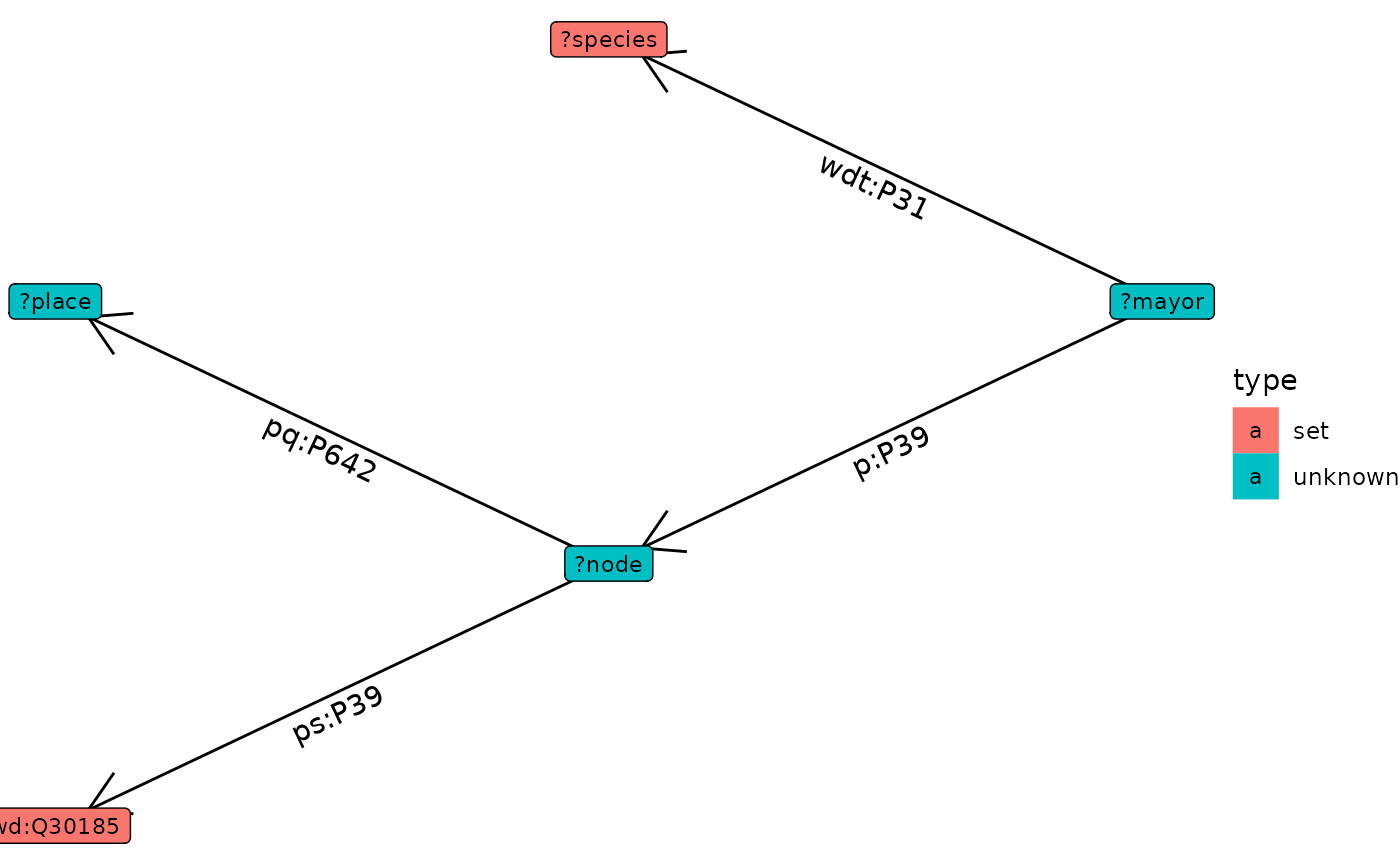
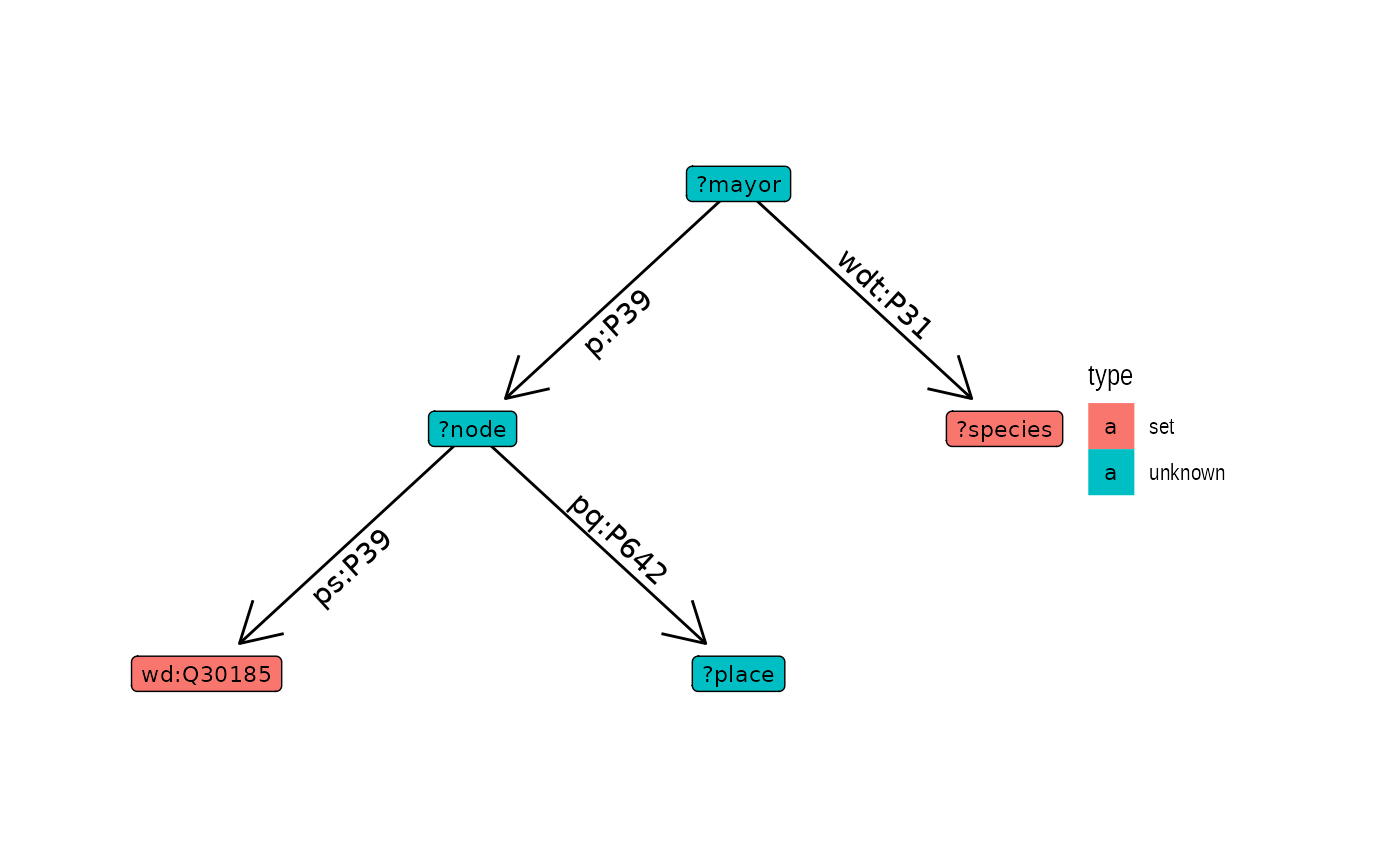
Deploying to gh-pages from @ lvaudor/sequins@5f4f7b83b090cd1eed1cc273b96b05ec75bf4a5f 🚀

diff --git a/articles/get-started.html b/articles/get-started.html
@@ -96,13 +96,16 @@
 <span>  <span class="co"># of some places</span></span>
 <span>  <span class="fu"><a href="https://lvaudor.github.io/glitter/reference/spq_add.html" class="external-link">spq_add</a></span><span class="op">(</span><span class="st">"?node pq:P642 ?place"</span><span class="op">)</span> </span>
 <span></span>
-<span><span class="fu"><a href="../reference/graph_query.html">graph_query</a></span><span class="op">(</span><span class="va">query</span>, layout<span class="op">=</span><span class="st">"tree"</span>, flip<span class="op">=</span><span class="cn">TRUE</span><span class="op">)</span></span></code></pre></div>
+<span><span class="fu"><a href="../reference/graph_query.html">graph_query</a></span><span class="op">(</span><span class="va">query</span>, layout<span class="op">=</span><span class="st">"tree"</span><span class="op">)</span></span></code></pre></div>
 <p><img src="get-started_files/figure-html/examples-graph_query--1.png" width="700"></p>
+<div class="sourceCode" id="cb3"><pre class="downlit sourceCode r">
+<code class="sourceCode R"><span><span class="fu"><a href="../reference/graph_query.html">graph_query</a></span><span class="op">(</span><span class="va">query</span>, label<span class="op">=</span><span class="cn">TRUE</span><span class="op">)</span></span></code></pre></div>
+<p><img src="get-started_files/figure-html/examples-graph_query--2.png" width="700"></p>
 </div>
 <div class="section level2">
 <h2 id="other-examples">Other examples<a class="anchor" aria-label="anchor" href="#other-examples"></a>
 </h2>
-<div class="sourceCode" id="cb3"><pre class="downlit sourceCode r">
+<div class="sourceCode" id="cb4"><pre class="downlit sourceCode r">
 <code class="sourceCode R"><span><span class="va">query</span><span class="op">=</span><span class="fu"><a href="https://lvaudor.github.io/glitter/reference/spq_init.html" class="external-link">spq_init</a></span><span class="op">(</span><span class="op">)</span> <span class="op"><a href="../reference/pipe.html">%&gt;%</a></span></span>
 <span>  <span class="fu"><a href="https://lvaudor.github.io/glitter/reference/spq_add.html" class="external-link">spq_add</a></span><span class="op">(</span><span class="st">"?doc dcterms:creator ?createur"</span><span class="op">)</span> <span class="op"><a href="../reference/pipe.html">%&gt;%</a></span>        </span>
 <span>  <span class="fu"><a href="https://lvaudor.github.io/glitter/reference/spq_add.html" class="external-link">spq_add</a></span><span class="op">(</span><span class="st">"?createur hal:structure ?affil"</span><span class="op">)</span> <span class="op"><a href="../reference/pipe.html">%&gt;%</a></span>        </span>
@@ -117,10 +120,6 @@
 <span></span>
 <span><span class="fu"><a href="../reference/graph_query.html">graph_query</a></span><span class="op">(</span><span class="va">query</span>, layout<span class="op">=</span><span class="st">"tree"</span><span class="op">)</span></span></code></pre></div>
 <p><img src="get-started_files/figure-html/unnamed-chunk-2-1.png" width="700"></p>
-<div class="sourceCode" id="cb4"><pre class="downlit sourceCode r">
-<code class="sourceCode R"><span></span>
-<span><span class="fu"><a href="../reference/graph_query.html">graph_query</a></span><span class="op">(</span><span class="va">query</span>, flip<span class="op">=</span><span class="cn">TRUE</span>, label<span class="op">=</span><span class="cn">TRUE</span><span class="op">)</span></span></code></pre></div>
-<p><img src="get-started_files/figure-html/unnamed-chunk-2-2.png" width="700"></p>
 </div>
 <div class="section level2">
 <h2 id="get_label">get_label<a class="anchor" aria-label="anchor" href="#get_label"></a>

diff --git a/reference/graph_query.html b/reference/graph_query.html
@@ -95,8 +95,11 @@
 <span class="r-in"><span>  <span class="co"># of some places</span></span></span>
 <span class="r-in"><span>  <span class="fu"><a href="https://lvaudor.github.io/glitter/reference/spq_add.html" class="external-link">spq_add</a></span><span class="op">(</span><span class="st">"?node pq:P642 ?place"</span><span class="op">)</span> </span></span>
 <span class="r-in"><span></span></span>
-<span class="r-in"><span><span class="fu">graph_query</span><span class="op">(</span><span class="va">query</span>, layout<span class="op">=</span><span class="st">"tree"</span>, flip<span class="op">=</span><span class="cn">TRUE</span><span class="op">)</span></span></span>
+<span class="r-in"><span><span class="fu">graph_query</span><span class="op">(</span><span class="va">query</span>, layout<span class="op">=</span><span class="st">"tree"</span><span class="op">)</span></span></span>
 <span class="r-plt img"><img src="graph_query-1.png" alt="" width="700" height="433"></span>
+<span class="r-in"><span><span class="fu">graph_query</span><span class="op">(</span><span class="va">query</span>, label<span class="op">=</span><span class="cn">TRUE</span><span class="op">)</span></span></span>
+<span class="r-plt img"><img src="graph_query-2.png" alt="" width="700" height="433"></span>
+<span class="r-in"><span></span></span>
 <span class="r-in"><span></span></span>
 </code></pre></div>
     </div>
